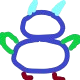
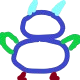
add stepping animation

Changed region(s): [[0.2, 0.9, 0.425, 1.0], [0.6, 0.9, 0.825, 1.0]]

diff --git a/jnativehook/src/main/java/com/github/aakm/Main.java b/jnativehook/src/main/java/com/github/aakm/Main.java
@@ -56,7 +56,8 @@ public class Main {
                 player.movePlayer(playerMovementValue);
                 // System.out.println("Player moved: (" + df.format(playerMovementValue[0]) + ", " + df.format(playerMovementValue[1]) + ")");
                 System.out.println("Player Position: (" + df.format(player.getPos()[0]) + ", " + df.format(player.getPos()[1]) + ")");
-                System.out.println("GUIPose:(" + game.getPlayerGUIPos()[0]+","+ game.getPlayerGUIPos()[1] + ")");             
+                System.out.println("GUIPose:(" + game.getPlayerGUIPos()[0]+","+ game.getPlayerGUIPos()[1] + ")");   
+                game.movePlayer(player.getPos());          
             }
 
             // detect and resolve player collisions
@@ -75,7 +76,6 @@ public class Main {
                 
 
             // display GUI
-            game.movePlayer(player.getPos());
 
             // global sleep
             while (System.currentTimeMillis() - startTime < Constants.loopTime * 1000.0) {

diff --git a/jnativehook/src/main/java/com/github/gameGUI/GameGUI.java b/jnativehook/src/main/java/com/github/gameGUI/GameGUI.java
@@ -29,7 +29,7 @@ public class GameGUI extends JComponent{
     private JLabel player = new JLabel();
     private JLabel bg = new JLabel();
 
-    private Icon pIcon;
+    private Icon pIcon, pIconStep;
     private Icon bgIcon;
 
 
@@ -50,6 +50,7 @@ public class GameGUI extends JComponent{
 
         //get pictures
         pIcon = new ImageIcon(Constants.playerImagePath);
+        pIconStep = new ImageIcon(Constants.playerImagePathStep);
         bgIcon = new ImageIcon(Constants.backgroundImagePath);
 
         //hud
@@ -96,6 +97,7 @@ public class GameGUI extends JComponent{
     public void movePlayer(double[] pos){
         int[] newPos = convertToGUIPixels(pos);
         player.setBounds(newPos[0] - pw/2,newPos[1] - ph/2,pw,ph);
+        player.setIcon((System.currentTimeMillis() / 1000.0) % (Constants.playerStepFrequency) < Constants.playerStepFrequency * 0.5 ? pIcon : pIconStep);
         p.repaint();
     }
     /**

diff --git a/jnativehook/src/main/java/com/github/aakm/Constants.java b/jnativehook/src/main/java/com/github/aakm/Constants.java
@@ -18,6 +18,7 @@ public class Constants {
     
     
     public static final String playerImagePath = imageFolder + "playerClear.png";
+    public static final String playerImagePathStep = imageFolder + "playerClearStep.png";
     public static final String backgroundImagePath = imageFolder + "betterBG.png";
 
     public class KeyBindings {
@@ -39,6 +40,7 @@ public class Constants {
 
     public static final double loopTime = 0.01; // Loop time; in seconds
     public static final double playerSpeed = 1.0; // speed of the player's movement; in meters per second
+    public static final double playerStepFrequency = 0.4; // amount of time to animate a full cycle of player stepping; in seconds
 
     public static final double[] playerStartingPos = {0.0, 0.0}; // X, Y starting position of player; in meters
     public static final double playerRadius = 0.1; // radial width of player's hitbox and interaction box; in meters
